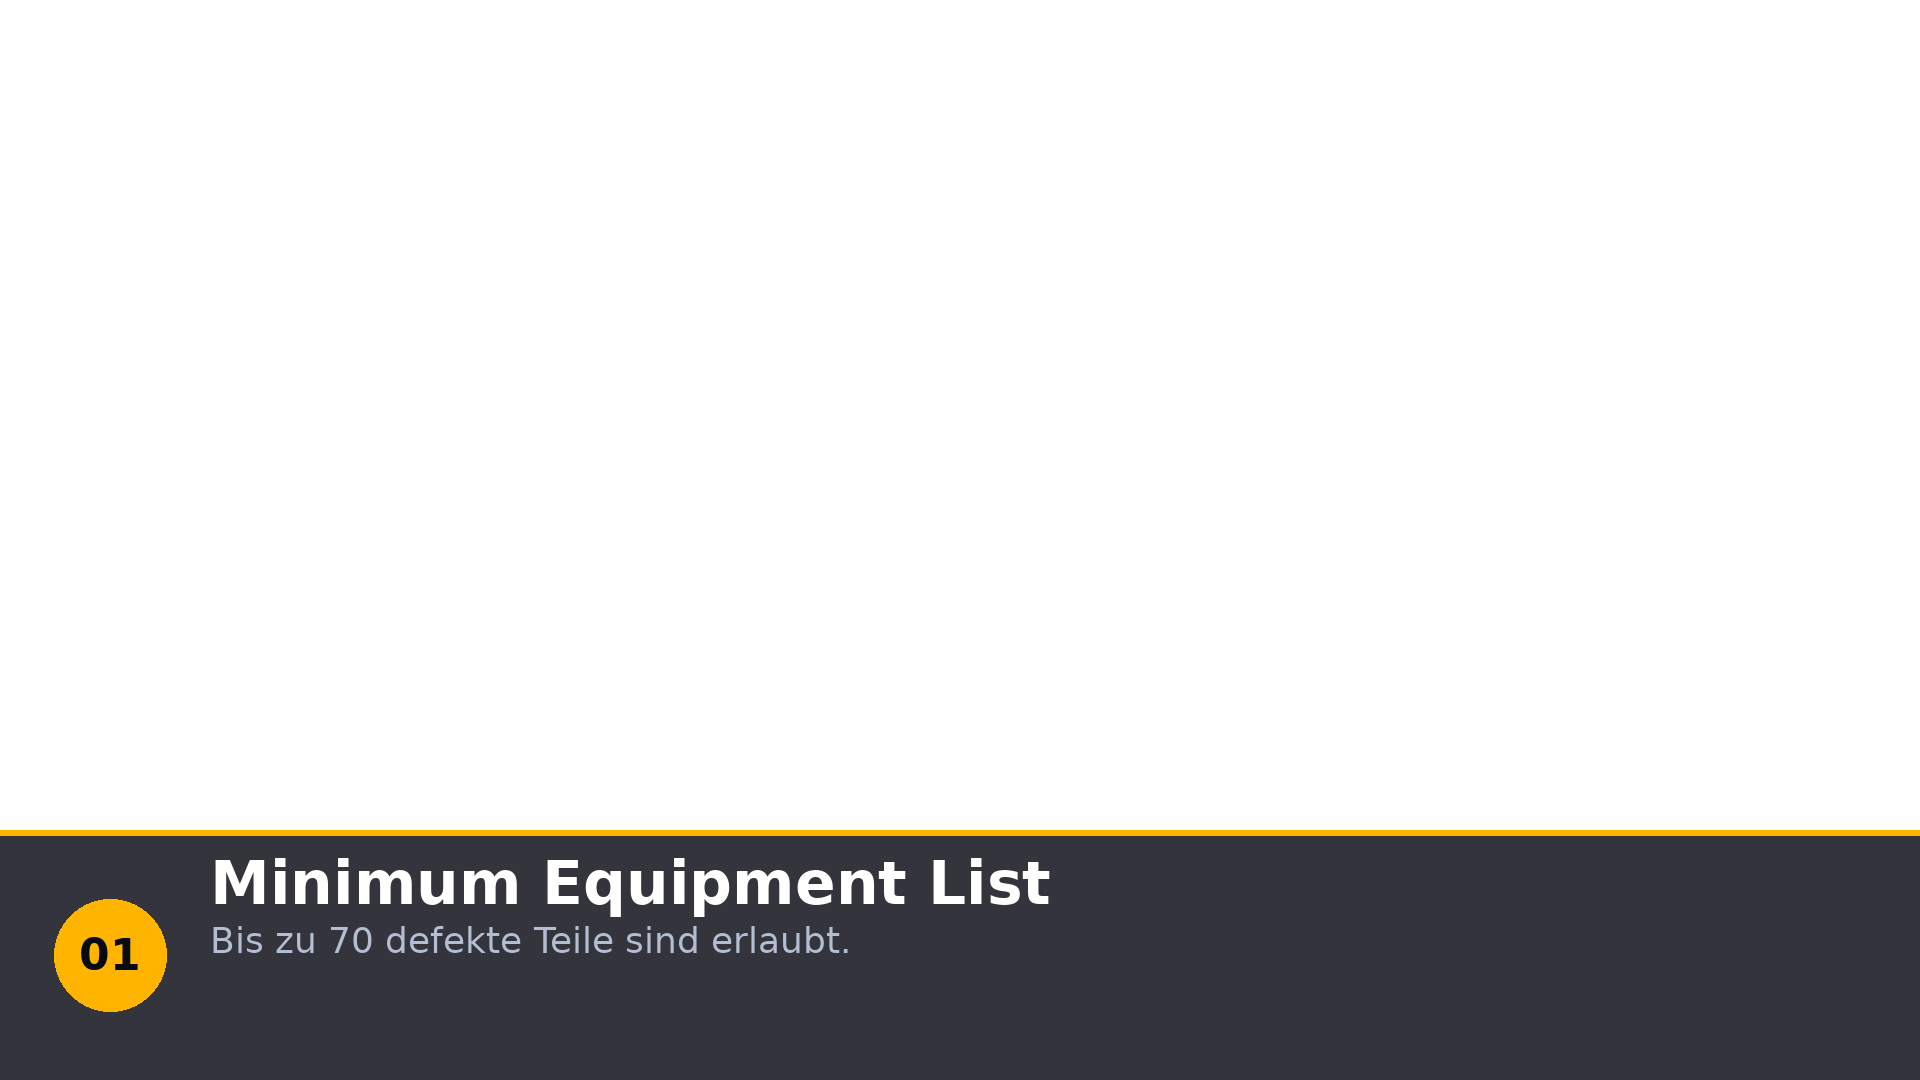
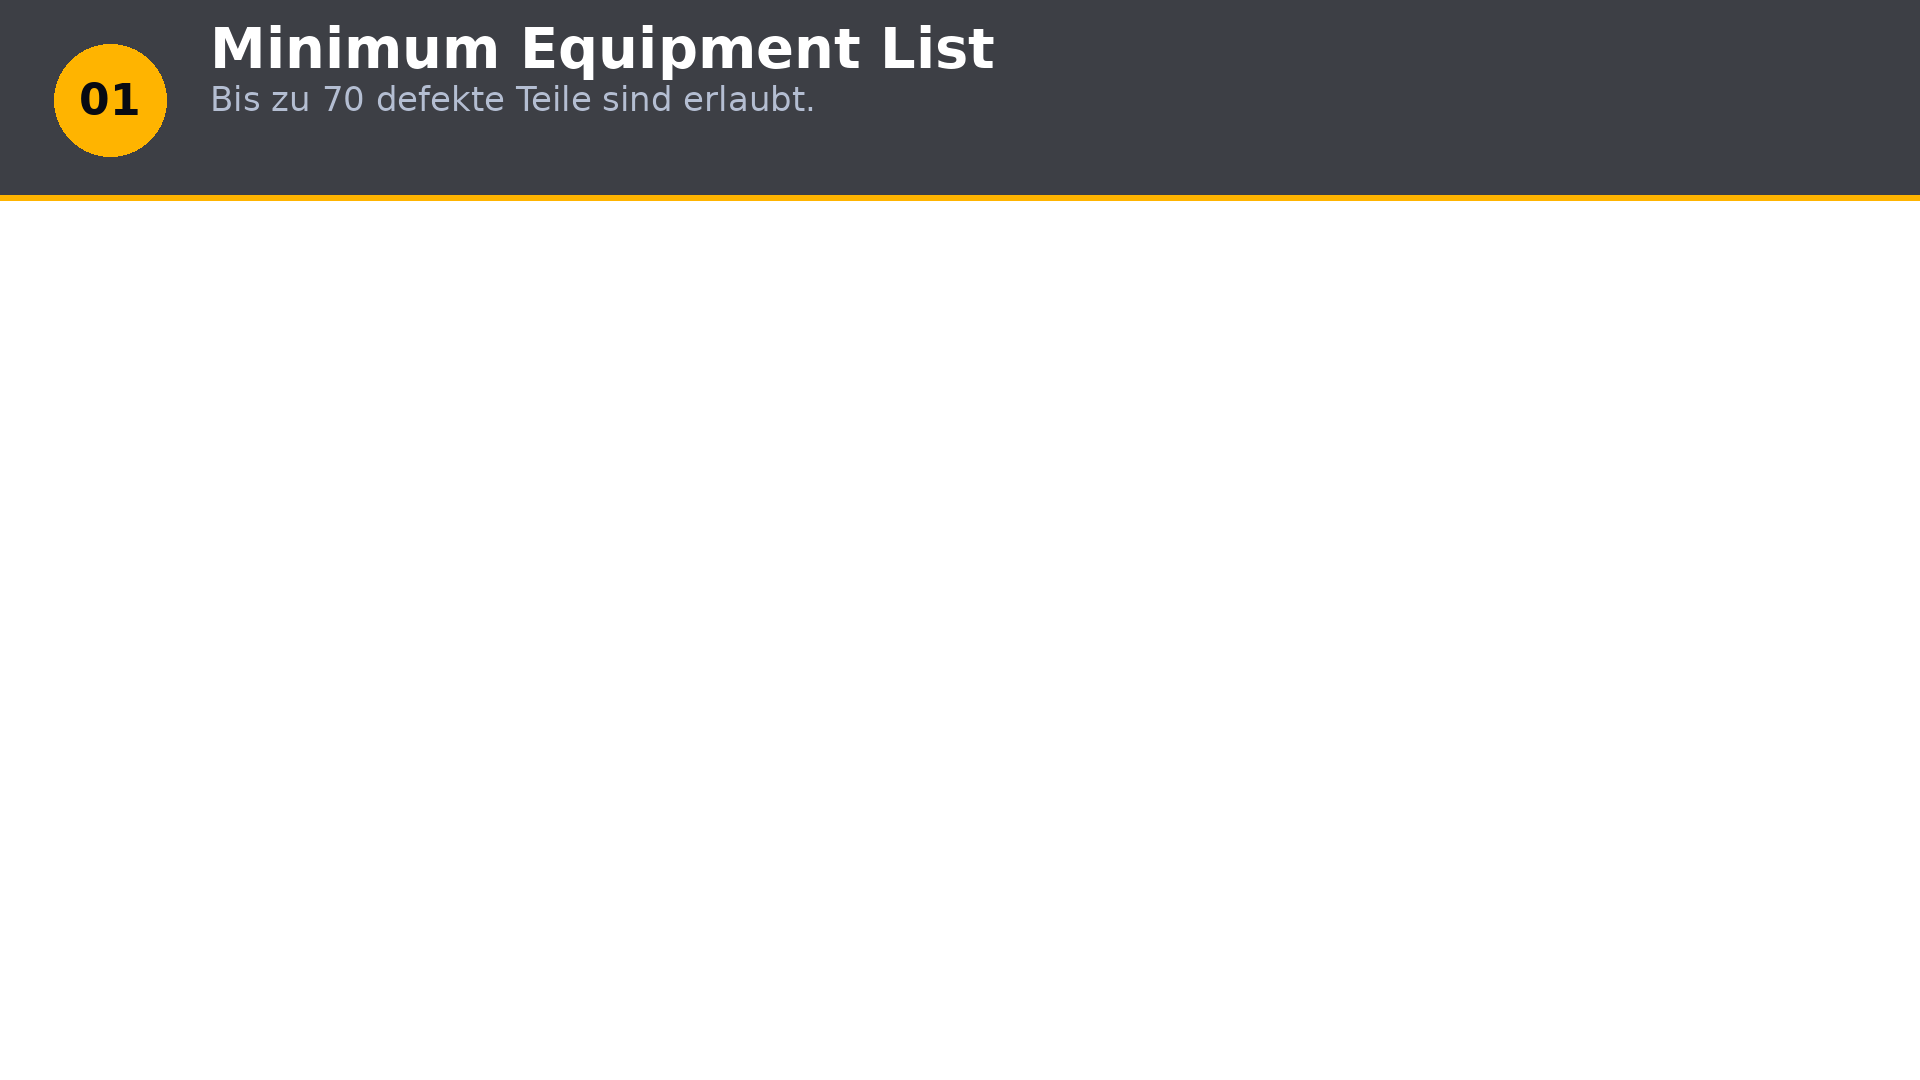
Move card panel to top to avoid covering captions
https://claude.ai/code/session_01ARJgWrbH9XX5BgbxcXV59x

diff --git a/Project/7_Dinge_die_dein_Pilot_NIE_laut_sagen_wuerde__Nr_4_schockier/generate_cards.py b/Project/7_Dinge_die_dein_Pilot_NIE_laut_sagen_wuerde__Nr_4_schockier/generate_cards.py
@@ -23,8 +23,8 @@ SCENES = [
 ]
 
 W, H        = 1920, 1080
-PANEL_H     = 250
-PANEL_ALPHA = 210
+PANEL_H     = 200
+PANEL_ALPHA = 200
 ACCENT      = (255, 180, 0, 255)
 TEXT_WHITE  = (255, 255, 255, 255)
 TEXT_MUTED  = (180, 190, 210, 255)
@@ -49,19 +49,17 @@ def draw_card(scene, out_path):
     img  = Image.new("RGBA", (W, H), (0, 0, 0, 0))
     draw = ImageDraw.Draw(img)
 
-    panel_top = H - PANEL_H
-
-    # Semi-transparent dark bottom panel
+    # Semi-transparent dark TOP panel (captions live at bottom -- top is always free)
     panel = Image.new("RGBA", (W, PANEL_H), PANEL_COLOR)
-    img.alpha_composite(panel, (0, panel_top))
+    img.alpha_composite(panel, (0, 0))
 
-    # Amber accent line at top of panel
-    draw.rectangle([(0, panel_top), (W, panel_top + 5)], fill=ACCENT)
+    # Amber accent line at bottom edge of panel
+    draw.rectangle([(0, PANEL_H - 5), (W, PANEL_H)], fill=ACCENT)
 
     # Badge circle on the left
     if scene["badge"]:
         cx = 110
-        cy = panel_top + PANEL_H // 2
+        cy = PANEL_H // 2
         r  = 56
         draw.ellipse([(cx - r, cy - r), (cx + r, cy + r)], fill=ACCENT)
         f_b = load_font(44, bold=True)
@@ -69,20 +67,20 @@ def draw_card(scene, out_path):
         text_x = cx + r + 44
     else:
         f_lbl = load_font(28)
-        draw.text((80, panel_top + 18), scene["label"], font=f_lbl, fill=ACCENT)
+        draw.text((80, 14), scene["label"], font=f_lbl, fill=ACCENT)
         text_x = 80
 
     # Headline
-    f_h     = load_font(60, bold=True)
-    wrapped = textwrap.fill(scene["headline"], width=40)
-    hy      = panel_top + 30 if not scene["badge"] else panel_top + 18
+    f_h     = load_font(56, bold=True)
+    wrapped = textwrap.fill(scene["headline"], width=44)
+    hy      = 14 if not scene["badge"] else 16
     draw.text((text_x, hy), wrapped, font=f_h, fill=TEXT_WHITE)
 
     # Sub-line
-    f_s   = load_font(36)
+    f_s   = load_font(34)
     lines = wrapped.count("\n") + 1
     bbox  = draw.textbbox((0, 0), "Ag", font=f_h)
-    sub_y = hy + (bbox[3] - bbox[1]) * lines + 14
+    sub_y = hy + (bbox[3] - bbox[1]) * lines + 10
     draw.text((text_x, sub_y), scene["sub"], font=f_s, fill=TEXT_MUTED)
 
     # Save with alpha channel preserved
